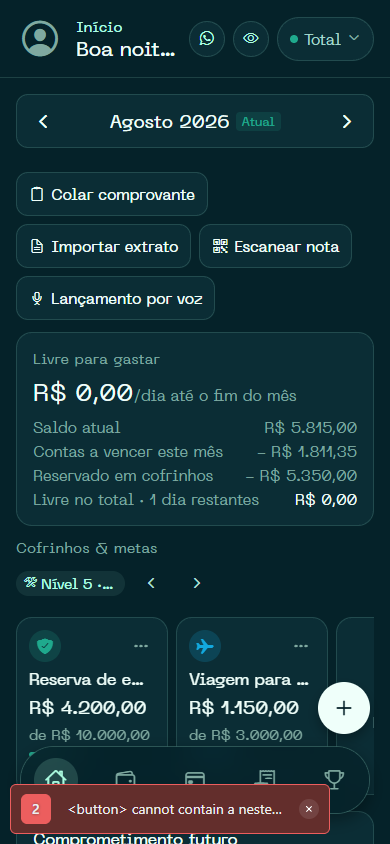
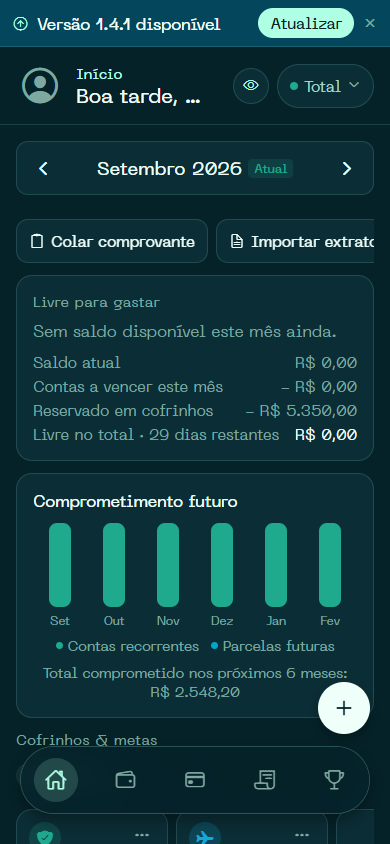
fix: seletor de categoria sem resposta a toque (modal aninhado ficava inert)
Reproduzido a pedido do autor: em Lancamentos, "Nova saida/entrada" ->
Categoria abria a lista, mas nenhum toque em nenhuma linha fazia nada,
nem no navegador mobile real nem simulado. Suspeita inicial (botoes
aninhados invalidos no HTML) nao era a causa - eliminada testando com
Pressable puro, sem AppPressable, sem hitSlop, sem scaleOnPress, e o
bug persistia identico em todos os casos.

Causa real, achada capturando pointerdown/mousedown/click reais (nao
elementFromPoint, que se mostrou nao confiavel neste ambiente): o
proprio wrapper do modal de Categoria, filho direto do body, estava
marcado inert=true. lib/modal-accessibility.ts usa essa tecnica pra
esconder o resto da pagina de um modal aberto (Sheet.tsx, FabButton.tsx
e AccessibleModalPanel chamam o mesmo hook) - com dois modais abertos
ao mesmo tempo (o formulario de lancamento, e o seletor de categoria
por cima dele), o portal do segundo virava "irmao" do primeiro na
varredura de isolamento e acabava marcado inert por engano. inert
bloqueia clique e foco reais mas nao .click() programatico nem
elementFromPoint - por isso só o clique de verdade falhava.

Duas camadas de correcao em modal-accessibility.ts: um registro de
paineis ativos (protege qualquer modal em qualquer instancia do hook,
registrado de forma sincrona antes de qualquer setTimeout ter chance
de rodar) e uma rede de seguranca que limpa o proprio caminho do
painel ate o body depois de cada varredura, cobrindo o caso de um
[…]

diff --git a/lib/modal-accessibility.ts b/lib/modal-accessibility.ts
@@ -20,6 +20,32 @@ type Registro = { usos: number; inert: boolean; ariaHidden: string | null };
 
 const isolados = new WeakMap<HTMLElement, Registro>();
 
+/**
+ * Painéis de modal atualmente abertos, de QUALQUER instância do hook.
+ *
+ * O bug que isto resolve: um segundo modal aberto POR CIMA do primeiro (ex.:
+ * o seletor de Categoria dentro do formulário de "Nova saída/entrada") vira
+ * IRMÃO do painel do primeiro modal lá no topo da árvore (ambos acabam como
+ * filhos diretos do body, um por `Modal` do React Native). A varredura do
+ * primeiro modal marca "todo irmão até o body" como `inert` — e o portal do
+ * segundo modal, que nasceu depois, cai nessa varredura como se fosse plateia
+ * comum, não um diálogo ativo. Resultado: o segundo modal renderiza normal,
+ * mas nenhum toque nele funciona (só `.click()` programático, que ignora
+ * `inert`) — foi exatamente o sintoma reportado (seletor de categoria sem
+ * resposta a toque). Consultar este registro antes de isolar qualquer
+ * elemento garante que nenhum painel ativo, de nenhuma instância, seja
+ * silenciado pela varredura de outra.
+ */
+const paineisAtivos = new Set<HTMLElement>();
+
+function contemPainelAtivo(elemento: HTMLElement): boolean {
+  if (paineisAtivos.has(elemento)) return true;
+  for (const painel of paineisAtivos) {
+    if (painel.isConnected && elemento.contains(painel)) return true;
+  }
+  return false;
+}
+
 function isolar(elemento: HTMLElement) {
   const registro = isolados.get(elemento);
   if (registro) {
@@ -152,12 +178,30 @@ export function useModalAccessibility(ref: RefObject<View | null>, ativo = true)
     let removerEventos = () => {};
     let restaurado = false;
 
+    /* Registro em `paineisAtivos` acontece AQUI, síncrono, na fase de commit
+       do efeito — não dentro do `setTimeout` de varredura logo abaixo.
+       Motivo: `Sheet.tsx`, `FabButton.tsx` e `AccessibleModalPanel` chamam
+       este MESMO hook, cada instância com seu próprio `setTimeout(.., 0)`.
+       Quando um modal abre por cima de outro (o seletor de Categoria sobre o
+       formulário de "Nova saída", que por sua vez pode ter sido aberto pelo
+       FAB), duas varreduras ficam na fila de macrotasks quase juntas — se o
+       registro também esperasse o próprio `setTimeout`, a varredura de UMA
+       instância podia rodar antes da OUTRA se registrar, e aí a proteção
+       chegava tarde demais: exatamente o que deixava o seletor de categoria
+       marcado `inert` por engano, sem nenhum toque nele funcionando (só
+       `.click()` programático, que ignora `inert`). Registrando de forma
+       síncrona aqui, o painel já está protegido antes de QUALQUER
+       `setTimeout(0)` — o dele ou o de outra instância — ter chance de rodar. */
+    const meuPainel = ref.current as unknown as HTMLElement | null;
+    if (meuPainel) paineisAtivos.add(meuPainel);
+
     /* Idempotente: é chamada da limpeza normal do efeito e também da rede de
        segurança logo abaixo. */
     const restaurar = () => {
       if (restaurado) return;
       restaurado = true;
       for (const elemento of meus) liberar(elemento);
+      if (meuPainel) paineisAtivos.delete(meuPainel);
     };
 
     /* Rede de segurança: solta tudo se o painel sair do documento.
@@ -193,11 +237,29 @@ export function useModalAccessibility(ref: RefObject<View | null>, ativo = true)
       while (atual?.parentElement) {
         for (const irmao of Array.from(atual.parentElement.children)) {
           if (irmao === atual || !(irmao instanceof HTMLElement)) continue;
+          if (contemPainelAtivo(irmao)) continue;
           isolar(irmao);
           meus.push(irmao);
         }
         atual = atual.parentElement;
         if (atual === document.body) break;
+      }
+
+      /* Rede de segurança adicional: nenhum ancestral do PRÓPRIO painel, até
+         o body, pode continuar `inert` depois desta varredura — não importa
+         quem o marcou. `contemPainelAtivo` acima cobre o caso comum (outra
+         instância varrendo agora), mas não cobre um `inert` que já estava
+         gravado ANTES desta instância sequer existir (o cenário original do
+         comentário no topo do arquivo: um isolamento anterior fotografou
+         `inert: true` como "estado prévio" de um nó que o React Native Web
+         reaproveita entre modais, e devolveu esse `true` ao fechar). Limpar
+         aqui não mexe no contador de `isolados` — só garante que o caminho
+         até ESTE painel nunca fica bloqueado enquanto ele está com `ativo`. */
+      let limpar: HTMLElement | null = painel;
+      while (limpar && limpar !== document.body) {
+        if (limpar.inert) limpar.inert = false;
+        if (limpar.getAttribute('aria-hidden') === 'true') limpar.removeAttribute('aria-hidden');
+        limpar = limpar.parentElement;
       }
 
       const focaveis = () =>

diff --git a/components/CategoryPickerModal.tsx b/components/CategoryPickerModal.tsx
@@ -213,24 +213,30 @@ export default function CategoryPickerModal({
               const isEditing = editingId === item.id;
               return (
                 <View key={item.id}>
-                  <AppPressable
-                    style={({ hovered }) => [
-                      styles.catRow,
-                      selected && styles.catRowSelected,
-                      hovered && styles.catRowHover,
-                    ]}
-                    onPress={() => {
-                      if (mode === 'manage') return;
-                      onSelectCategory?.(item);
-                      onClose();
-                    }}
-                  >
-                    <View style={[styles.dot, { backgroundColor: item.color }]} />
-                    <Text style={[styles.catName, selected && { color: theme.ink}]}>
-                      {item.name}
-                    </Text>
-                    {selected && <Ionicons name="checkmark" size={16} color={theme.ink} />}
-                    {item.isDefault && <Text style={styles.defaultTag}>padrão</Text>}
+                  {/* Contêiner só de layout (não é Pressable): os botões de
+                      editar/excluir precisam ser IRMÃOS do botão de
+                      selecionar, não filhos dele. Um <button> HTML não pode
+                      conter outro <button> — react-native-web renderiza
+                      qualquer Pressable com papel de botão como <button>
+                      de verdade, e aninhar dois quebra o hit-test nativo
+                      do navegador (só `.click()` programático funcionava;
+                      toque/clique real não chegava a nenhum dos dois). */}
+                  <View style={[styles.catRow, selected && styles.catRowSelected]}>
+                    <AppPressable
+                      style={({ hovered }) => [styles.catRowMain, hovered && styles.catRowHover]}
+                      onPress={() => {
+                        if (mode === 'manage') return;
+                        onSelectCategory?.(item);
+                        onClose();
+                      }}
+                    >
+                      <View style={[styles.dot, { backgroundColor: item.color }]} />
+                      <Text style={[styles.catName, selected && { color: theme.ink}]}>
+                        {item.name}
+                      </Text>
+                      {selected && <Ionicons name="checkmark" size={16} color={theme.ink} />}
+                      {item.isDefault && <Text style={styles.defaultTag}>padrão</Text>}
+                    </AppPressable>
                     <View style={styles.rowActions}>
                       <AppPressable
                         onPress={() => openEdit(item)}
@@ -249,7 +255,7 @@ export default function CategoryPickerModal({
                         <Ionicons name="trash-outline" size={15} color={theme.inkFaint} />
                       </AppPressable>
                     </View>
-                  </AppPressable>
+                  </View>
 
                   {isEditing && (
                     <View style={styles.newForm}>
@@ -336,7 +342,16 @@ const styles = StyleSheet.create({
   sheetTitle: { color: theme.ink, fontSize: type.titulo, fontFamily: fonts.regular },
   catList: { maxHeight: 280 },
   catListTall: { maxHeight: 420 },
+  /* Contêiner de layout — não é Pressable. Ver o comentário no ponto de uso
+     sobre por que os botões de ação não podem ser filhos do botão da linha. */
   catRow: {
+    flexDirection: 'row',
+    alignItems: 'center',
+    borderRadius: radius.sm,
+  },
+  catRowSelected: { backgroundColor: theme.paper },
+  catRowMain: {
+    flex: 1,
     flexDirection: 'row',
     alignItems: 'center',
     gap: 10,
@@ -344,12 +359,11 @@ const styles = StyleSheet.create({
     paddingHorizontal: 8,
     borderRadius: radius.sm,
   },
-  catRowSelected: { backgroundColor: theme.paper },
   catRowHover: { backgroundColor: theme.paper },
   dot: { width: 10, height: 10, borderRadius: 5 },
   catName: { color: theme.inkSoft, fontSize: type.apoio, flexShrink: 1, fontFamily: fonts.light },
   defaultTag: { color: theme.inkFaint, fontSize: type.micro, letterSpacing: 0.5, fontFamily: fonts.light },
-  rowActions: { flexDirection: 'row', gap: 4, marginLeft: 'auto' },
+  rowActions: { flexDirection: 'row', gap: 4, paddingRight: 8 },
   rowActionBtn: { padding: 4 },
   createToggle: { color: theme.inkSoft, fontSize: type.apoio, paddingVertical: 6, fontFamily: fonts.light },
   newForm: { gap: 10, paddingVertical: 10, paddingHorizontal: 4 },
